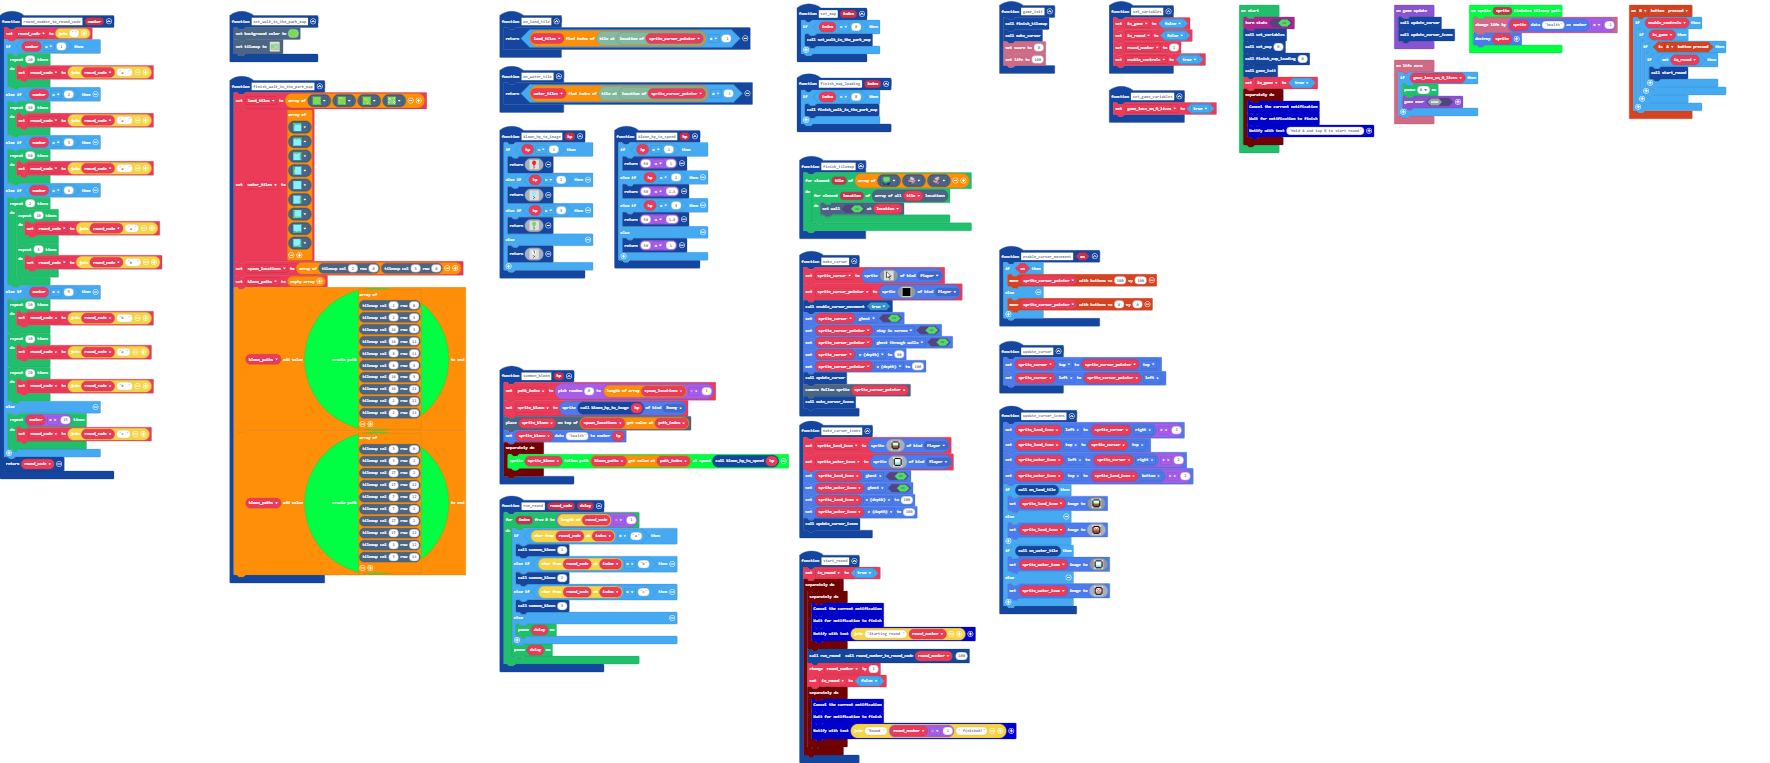
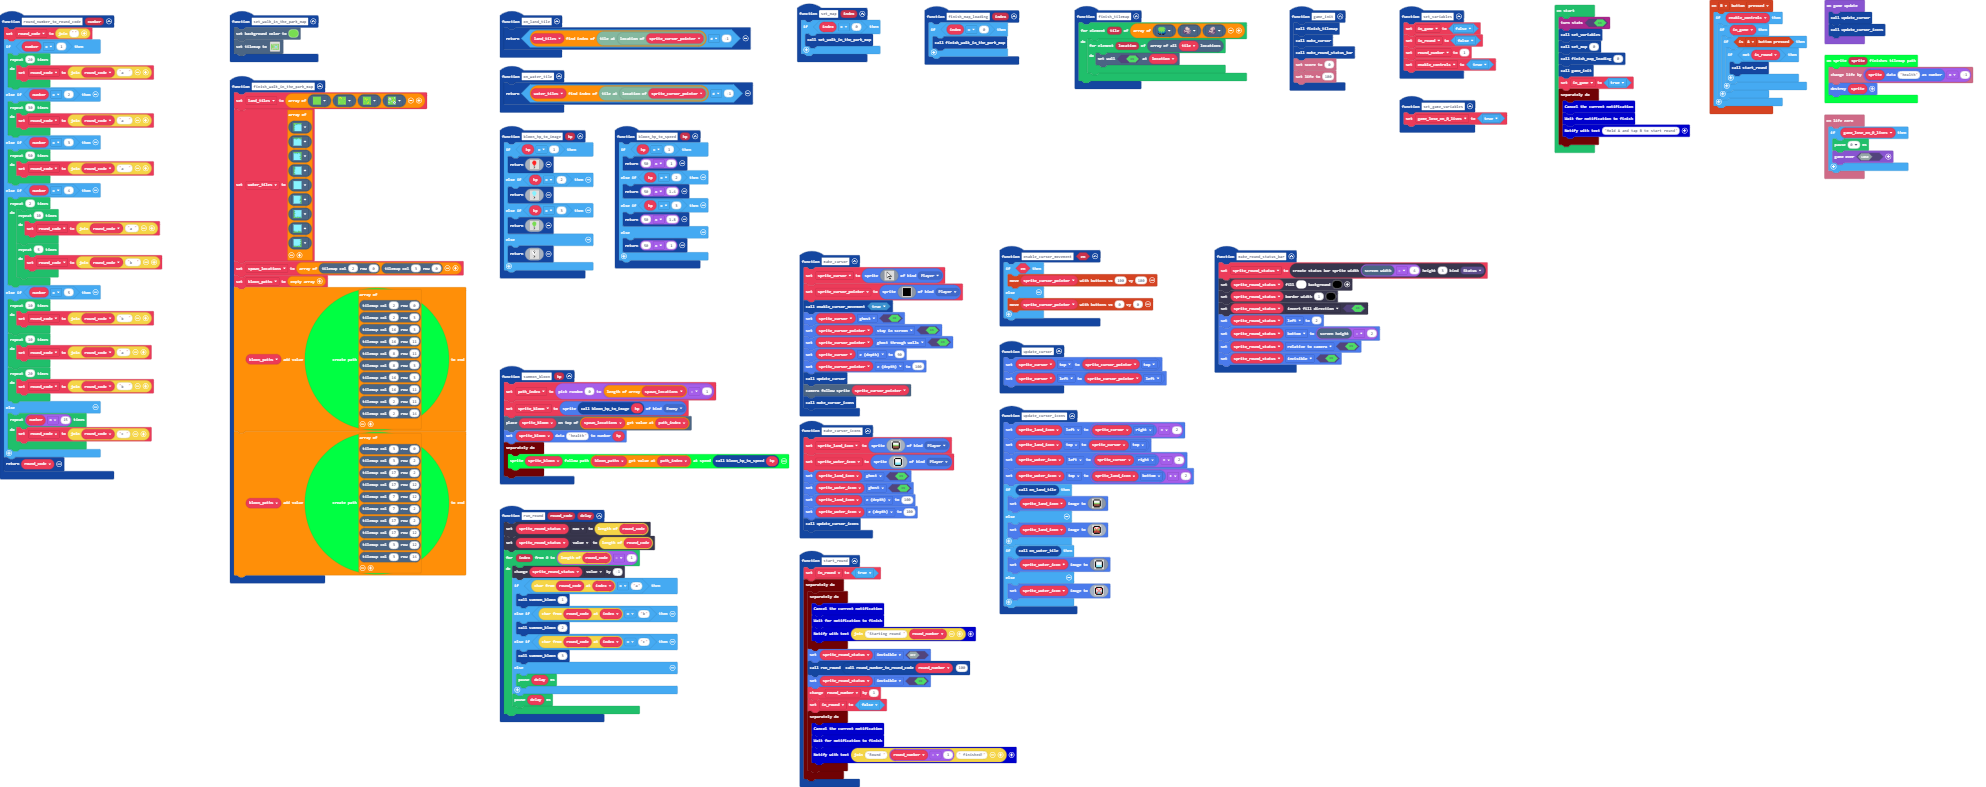
Show how far you are in round

diff --git a/main.ts b/main.ts
@@ -1,3 +1,6 @@
+namespace StatusBarKind {
+    export const Status = StatusBarKind.create()
+}
 function on_land_tile () {
     return land_tiles.indexOf(tiles.getTileAtLocation(tiles.locationOfSprite(sprite_cursor_pointer))) != -1
 }
@@ -19,7 +22,9 @@ function start_round () {
             Notification.waitForNotificationFinish()
             Notification.notify("Starting round " + round_number)
         })
+        sprite_round_status.setFlag(SpriteFlag.Invisible, false)
         run_round(round_number_to_round_code(round_number), 100)
+        sprite_round_status.setFlag(SpriteFlag.Invisible, true)
         round_number += 1
         in_round = false
         timer.background(function () {
@@ -110,6 +115,16 @@ function round_number_to_round_code (number: number) {
     }
     return round_code
 }
+function make_round_status_bar () {
+    sprite_round_status = statusbars.create(scene.screenWidth() - 4, 3, StatusBarKind.Status)
+    sprite_round_status.setColor(1, 15)
+    sprite_round_status.setBarBorder(1, 15)
+    sprite_round_status.setStatusBarFlag(StatusBarFlag.InvertFillDirection, true)
+    sprite_round_status.left = 2
+    sprite_round_status.bottom = scene.screenHeight() - 2
+    sprite_round_status.setFlag(SpriteFlag.RelativeToCamera, true)
+    sprite_round_status.setFlag(SpriteFlag.Invisible, true)
+}
 function finish_tilemap () {
     for (let tile of [sprites.builtin.forestTiles0, sprites.castle.rock0, sprites.castle.rock1]) {
         for (let location of tiles.getTilesByType(tile)) {
@@ -177,6 +192,7 @@ function make_cursor () {
 function game_init () {
     finish_tilemap()
     make_cursor()
+    make_round_status_bar()
     info.setScore(0)
     info.setLife(100)
 }
@@ -200,7 +216,10 @@ function on_water_tile () {
     return water_tiles.indexOf(tiles.getTileAtLocation(tiles.locationOfSprite(sprite_cursor_pointer))) != -1
 }
 function run_round (round_code: string, delay: number) {
+    sprite_round_status.max = round_code.length
+    sprite_round_status.value = round_code.length
     for (let index = 0; index <= round_code.length - 1; index++) {
+        sprite_round_status.value += -1
         if (round_code.charAt(index) == "a") {
             summon_bloon(1)
         } else if (round_code.charAt(index) == "b") {
@@ -262,6 +281,7 @@ let round_code = ""
 let sprite_water_icon: Sprite = null
 let sprite_land_icon: Sprite = null
 let game_lose_on_0_lives = false
+let sprite_round_status: StatusBarSprite = null
 let enable_controls = false
 let round_number = 0
 let in_round = false
